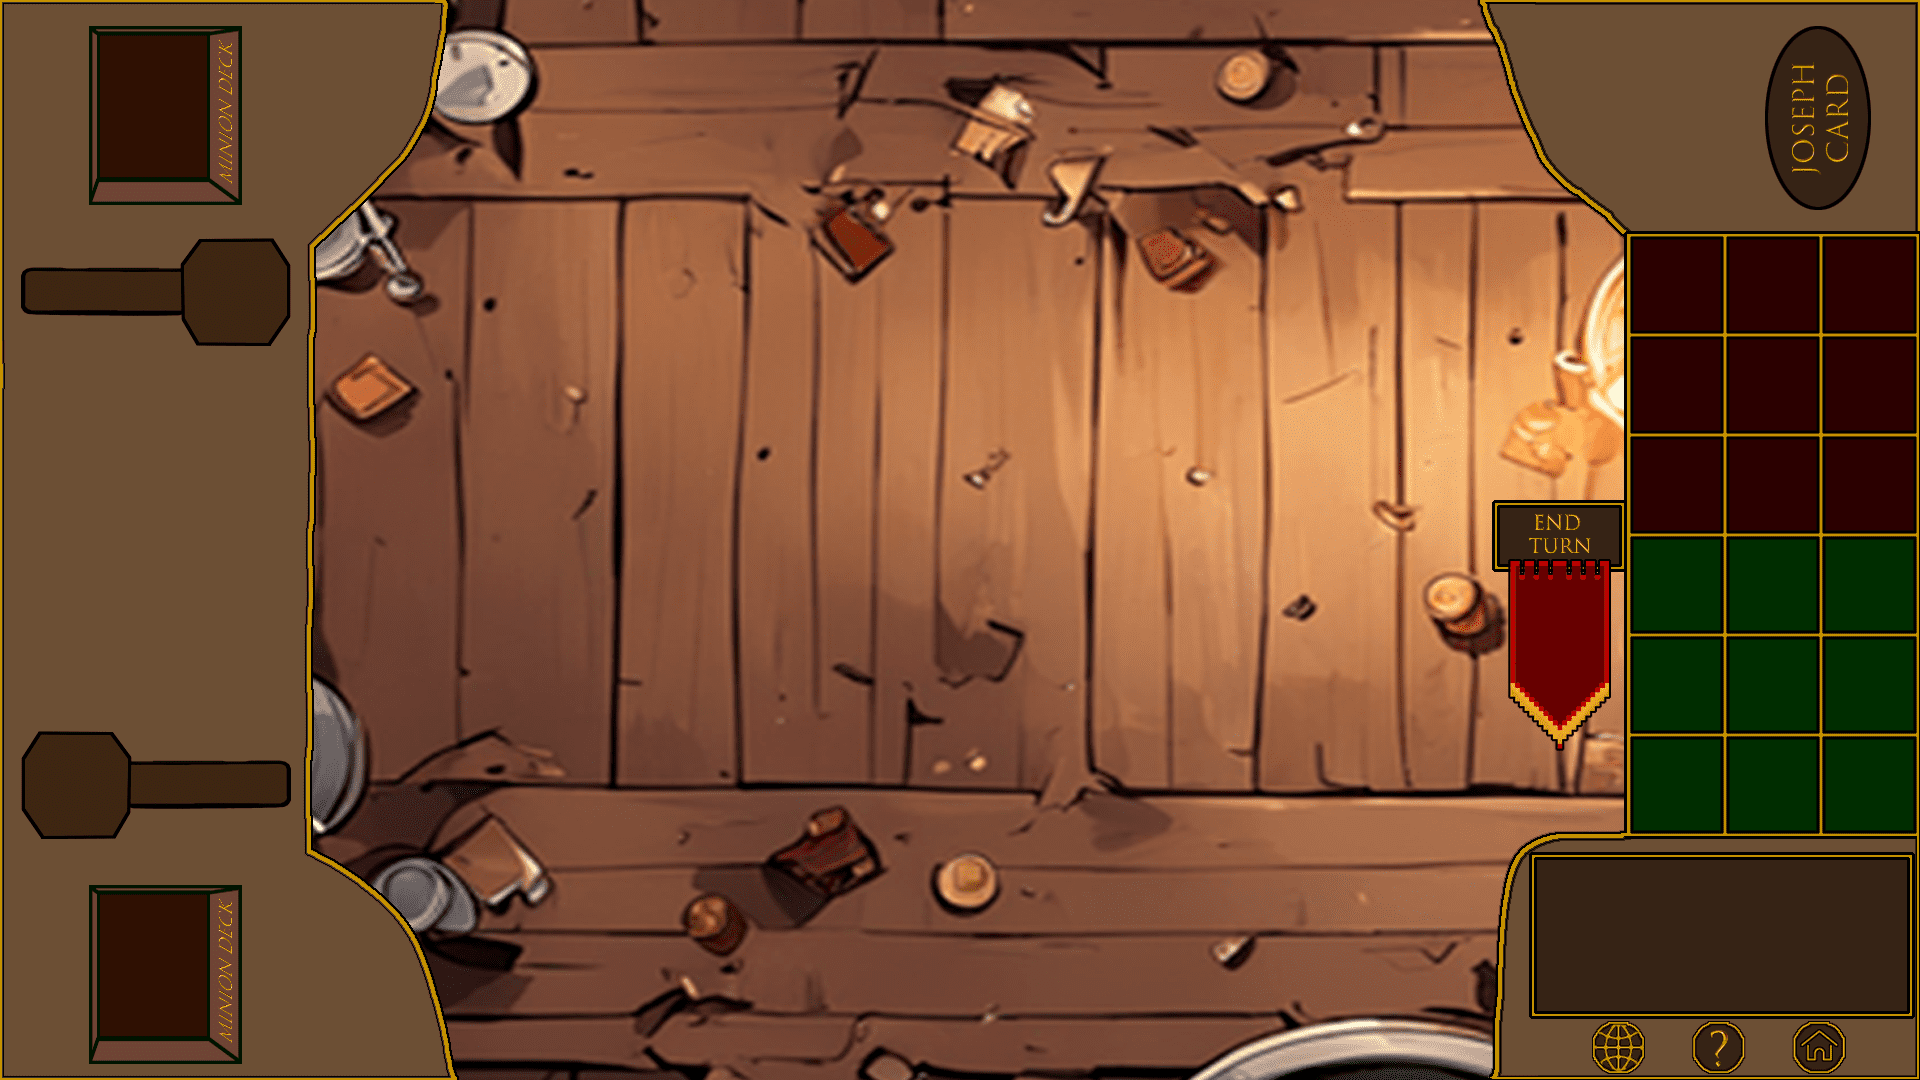
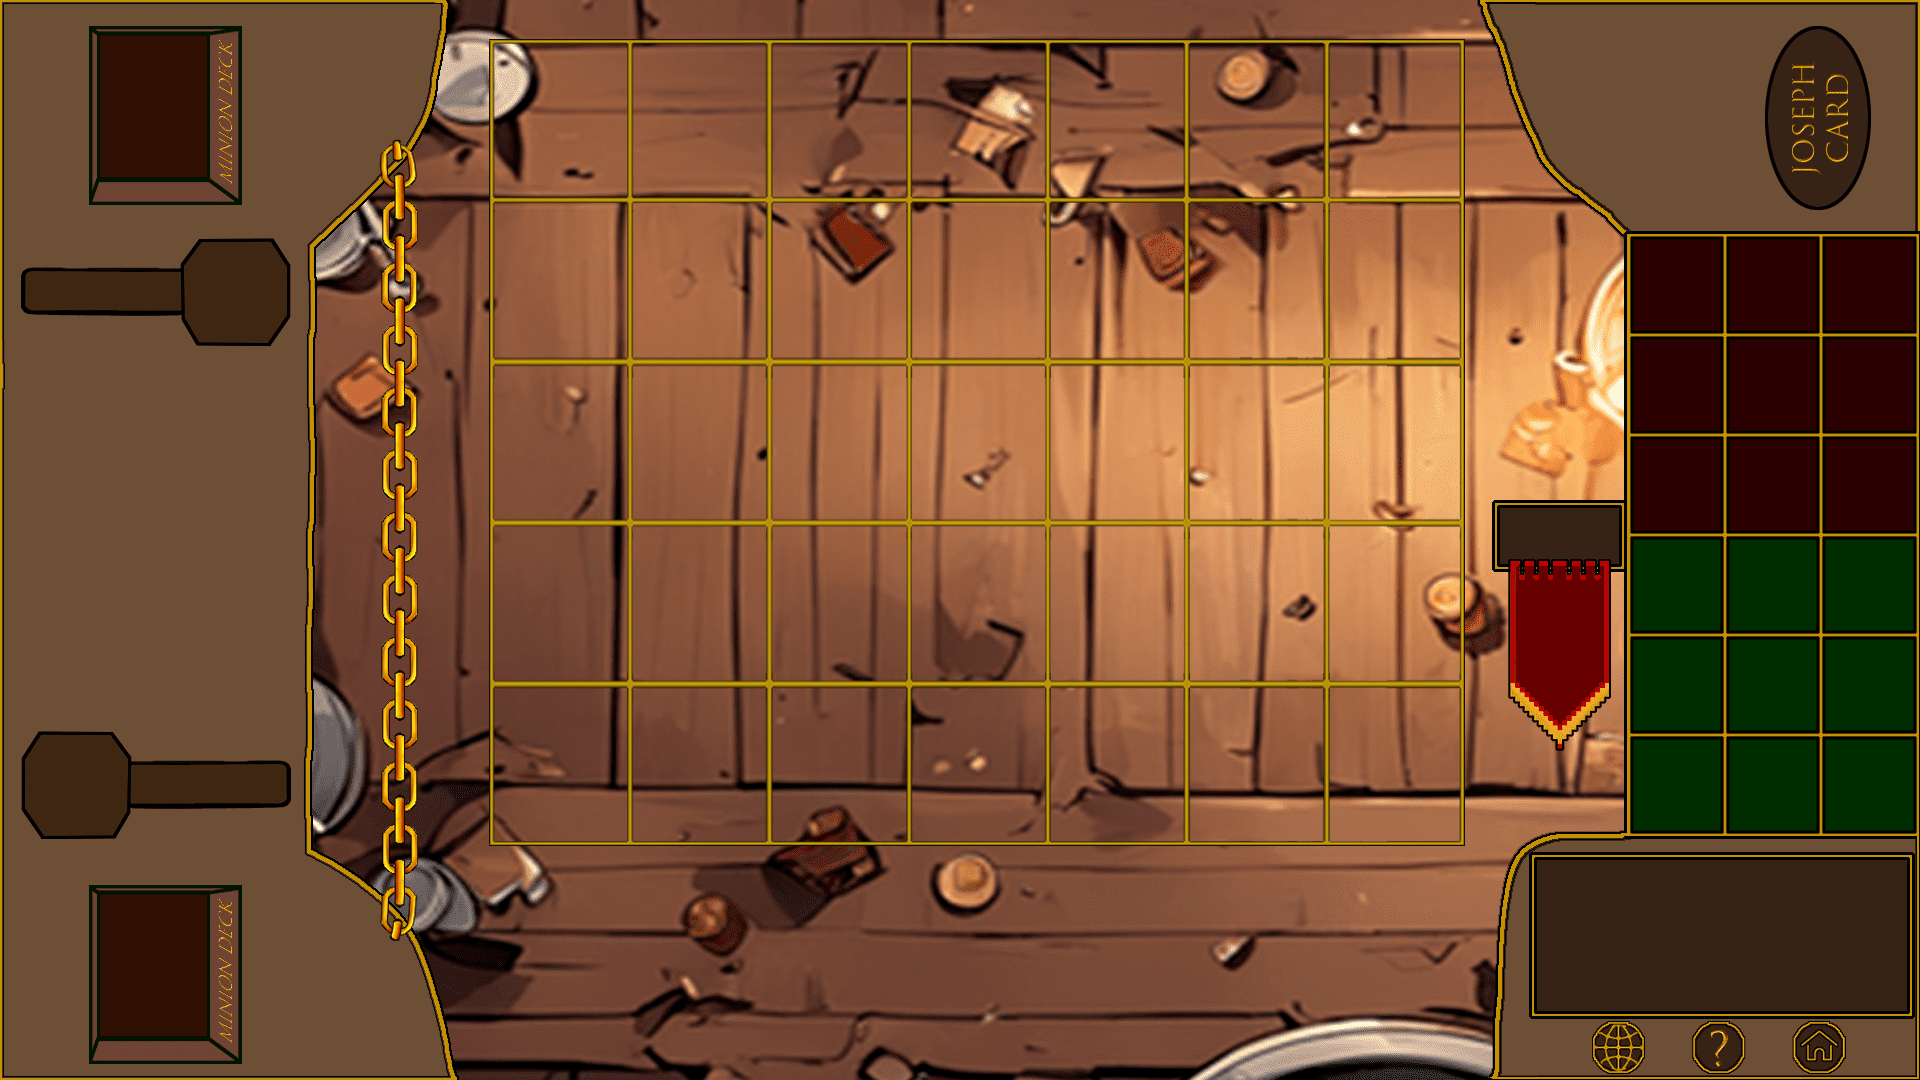
[SCRUM-140] UPDATE - Button Render & board.png

Changed region(s): [[0.25, 0.0306, 0.7812, 0.7944], [0.1875, 0.1222, 0.2188, 0.8861], [0.8125, 0.4889, 0.8438, 0.5194]]

diff --git a/src/Button/ButtonContainer.js b/src/Button/ButtonContainer.js
@@ -7,15 +7,15 @@ export default class ButtonContainer{
         this.state     = renderState.GAME;
     }
 
-    static create(ctx){
+    static create(ctx, assets){
         // Button(context, x, y, width, height, "texto", estado button, estado fase que devuelve)
-        const btnMove           = new Button(ctx, 330, 200, ["move", "mugitu"], ButtonState.NOT_SELECTED, PhaseStates.MOVEMENT, renderState.GAME);
-        const btnPrepareEvent   = new Button(ctx, 330, 350, ["prepare event", "prestatu"], ButtonState.NOT_SELECTED, PhaseStates.PREPARE_EVENT, renderState.GAME);
-        const btnUseEvent       = new Button(ctx, 330, 500, ["use event", "erabili"], ButtonState.NOT_SELECTED, PhaseStates.USE_EVENT_CARD, renderState.GAME);
-        const btnAttack         = new Button(ctx, 330, 650, ["attack", " eraso"], ButtonState.NOT_SELECTED, PhaseStates.ATTACK, renderState.GAME);
-        const btnEndTurn        = new Button(ctx, 1450, 450,["end turn", "txanda amaitu"], ButtonState.NOT_SELECTED, PhaseStates.DISCARD_CARD, renderState.GAME);
-        const btnParry          = new Button(ctx, 330, 300, ["Parry", "Blokeatu"], ButtonState.NOT_SELECTED, AttackState.PARRY, renderState.PARRY);
-        const btnNoParry        = new Button(ctx, 330, 600, ["No Parry", "Ez Blokeatu"], ButtonState.NOT_SELECTED, AttackState.ATTACK, renderState.PARRY);
+        const btnMove           = new Button(ctx, 340, 260, 119, 75, ["MOVE", "MUGITU"], ButtonState.NOT_SELECTED, PhaseStates.MOVEMENT, renderState.GAME, assets);
+        const btnPrepareEvent   = new Button(ctx, 340, 410, 119, 75, ["PREPARE", "PRESTATU"], ButtonState.NOT_SELECTED, PhaseStates.PREPARE_EVENT, renderState.GAME, assets);
+        const btnUseEvent       = new Button(ctx, 340, 560, 119, 75, ["USE", "ERABILI"], ButtonState.NOT_SELECTED, PhaseStates.USE_EVENT_CARD, renderState.GAME, assets);
+        const btnAttack         = new Button(ctx, 340, 710, 119, 75, ["ATTACK", "ERASO"], ButtonState.NOT_SELECTED, PhaseStates.ATTACK, renderState.GAME, assets);
+        const btnEndTurn        = new Button(ctx, 1493, 500, 117, 55, ["END\nTURN", "TXANDA\nAMAITU"], ButtonState.NOT_SELECTED, PhaseStates.DISCARD_CARD, renderState.GAME, assets);
+        const btnParry          = new Button(ctx, 340, 360, 119, 75, ["PARRY", "BLOKEATU"], ButtonState.NOT_SELECTED, AttackState.PARRY, renderState.PARRY, assets);
+        const btnNoParry        = new Button(ctx, 340, 660, 119, 75, ["NO\nPARRY", "EZ\nBLOKEATU"], ButtonState.NOT_SELECTED, AttackState.ATTACK, renderState.PARRY, assets);
 
 
 

diff --git a/src/Button/Button.js b/src/Button/Button.js
@@ -2,38 +2,52 @@ import { ButtonState, LanguageId } from "../constants.js";
 
 export default class Button {
 
-    constructor(ctx, x, y, text, state, phaseState, renderState){
+    constructor(ctx, x, y, width, height,  text, state, phaseState, renderState, img){
         
         this.ctx        = ctx;
         this.x          = x;
         this.y          = y;
-        this.width      = 150;
-        this.height     = 100;
+        this.width      = width;
+        this.height     = height;
         this.text       = text;
         this.state      = state;
         this.phaseState = phaseState;
         this.color      = "#582900";
+        this.img        = img;
 }
 
     render(language){
-        this.ctx.fillStyle = this.color;
-        this.roundRect(this.ctx, this.x, this.y, this.width, this.height, 10); // Llamada a la función para dibujar un rectángulo redondeado
-        this.ctx.fill();
-    
+        if (this.height>70) {
+            this.ctx.drawImage(this.img, this.x, this.y)
+            
+        }
+
+        if (this.state === ButtonState.SELECTED) {
+            this.ctx.fillStyle = "#C36F29";
+            this.ctx.fillRect(this.x+8, this.y+9, this.width, this.height); // Llamada a la función para dibujar un rectángulo redondeado
+            this.ctx.fillStyle = 'rgb(22, 22, 2)';
+        }else{
+            this.ctx.fillStyle = 'rgb(242, 211, 6)';
+        }
+        
         // Texto del botón
-        this.ctx.fillStyle      = '#ffffff';
-        this.ctx.font           = '20px Arial';
+        
+        this.ctx.font           = '20px Trajan Color';
         this.ctx.textAlign      = 'center';
         this.ctx.textBaseline   = 'middle';
 
-        switch(language){
-            case LanguageId.ENG:
-                this.ctx.fillText(this.text[LanguageId.ENG], this.x + this.width / 2, this.y + this.height / 2);
-                break;
+        const text = this.text[language].split("\n")
+        for (let i = 0; i < text.length; i++) {
+            const line = text[i];
+            let modifier = 0
+            if (text.length >1) {
+                modifier = 13
+            }
+            const xPos = (this.x + this.width / 2) + 8
+            const yPos = (this.y + this.height / 2) + 8 + i*25-modifier
+            this.ctx.fillText(line, xPos , yPos);
 
-            case LanguageId.EUS:
-                this.ctx.fillText(this.text[LanguageId.EUS], this.x + this.width / 2, this.y + this.height / 2);
-                break;
+            
         }
        
     }

diff --git a/src/imageNames.js b/src/imageNames.js
@@ -6,5 +6,6 @@ const equipmentRarityImages  = ["common_equip", "rare_equip", "epic_equip", "leg
 const gameRarityImages       = ["common_rarity", "rare_rarity", "epic_rarity", "legendary_rarity"];
 const cardTypeImages         = ["minion", "curse", "buff", "hero", "joseph", "armor", "weapon", "spell"];
 const TeamImages       = ["attacker", "defender"];
+const buttonImages           = ["button"]
 
-export const Images = {backgroundImages, cardBordersImages, cardIconsImages, cardRarityImages, equipmentRarityImages, gameRarityImages, cardTypeImages, TeamImages};                                   
+export const Images = {backgroundImages, cardBordersImages, cardIconsImages, cardRarityImages, equipmentRarityImages, gameRarityImages, cardTypeImages, TeamImages, buttonImages};                                   

diff --git a/src/Asset.js b/src/Asset.js
@@ -27,6 +27,7 @@ export default class Asset {
         this.loadCardType();
         this.loadBackground();
         this.loadTeamIcons();
+        this.loadButtonImages();
     }
 
     loadCardImages(data) {
@@ -97,6 +98,11 @@ export default class Asset {
     loadTeamIcons(){
 
         this.createImage(Images.TeamImages, "icons/card_team_icons");
+    }
+
+    loadButtonImages(){
+
+        this.createImage(Images.buttonImages, "others");
     }
 
     loadHandler() {

diff --git a/src/Game.js b/src/Game.js
@@ -48,7 +48,7 @@ export default class Game {
         const eventContainer = new EventContainer()
         deckContainer.createDecks(data, cardImgs, language);
 
-        const buttonContainer = ButtonContainer.create(ctx);
+        const buttonContainer = ButtonContainer.create(ctx, assets.images[ImageTypes.BUTTON][0]);
 
         const turns = new TurnContainer(board, deckContainer, buttonContainer, eventContainer);
         const mouse = new Mouse(canvas);

diff --git a/src/constants.js b/src/constants.js
@@ -120,6 +120,7 @@ export const ImageTypes = {
     CARD_TYPE: 6,
     BOARD_IMAGE: 7,
     TEAM: 8,
+    BUTTON: 9
 }
 export const CardImageId = {
     JOSEPH: 1,
